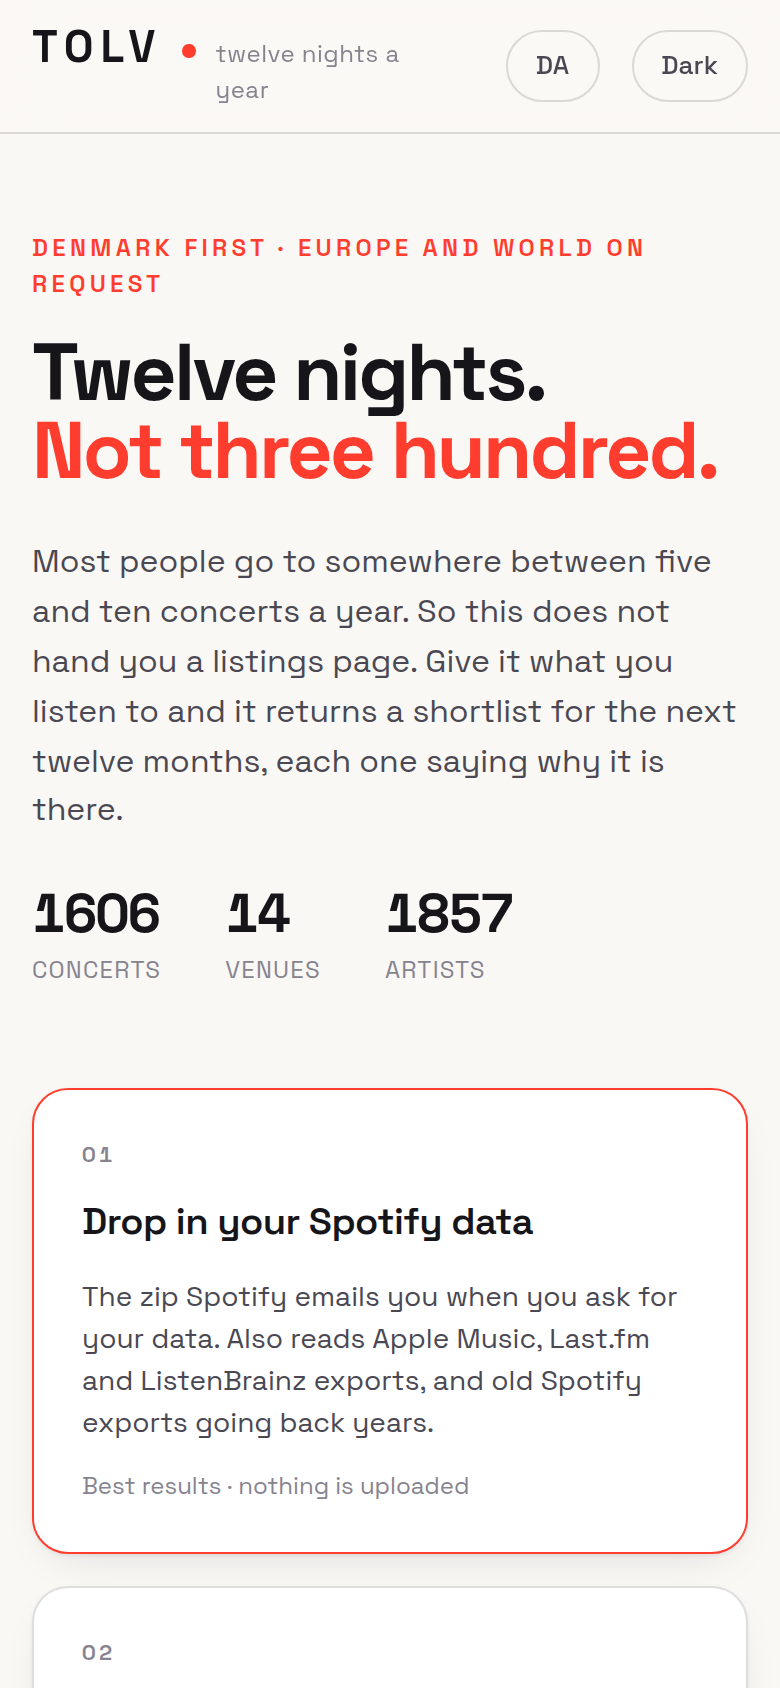
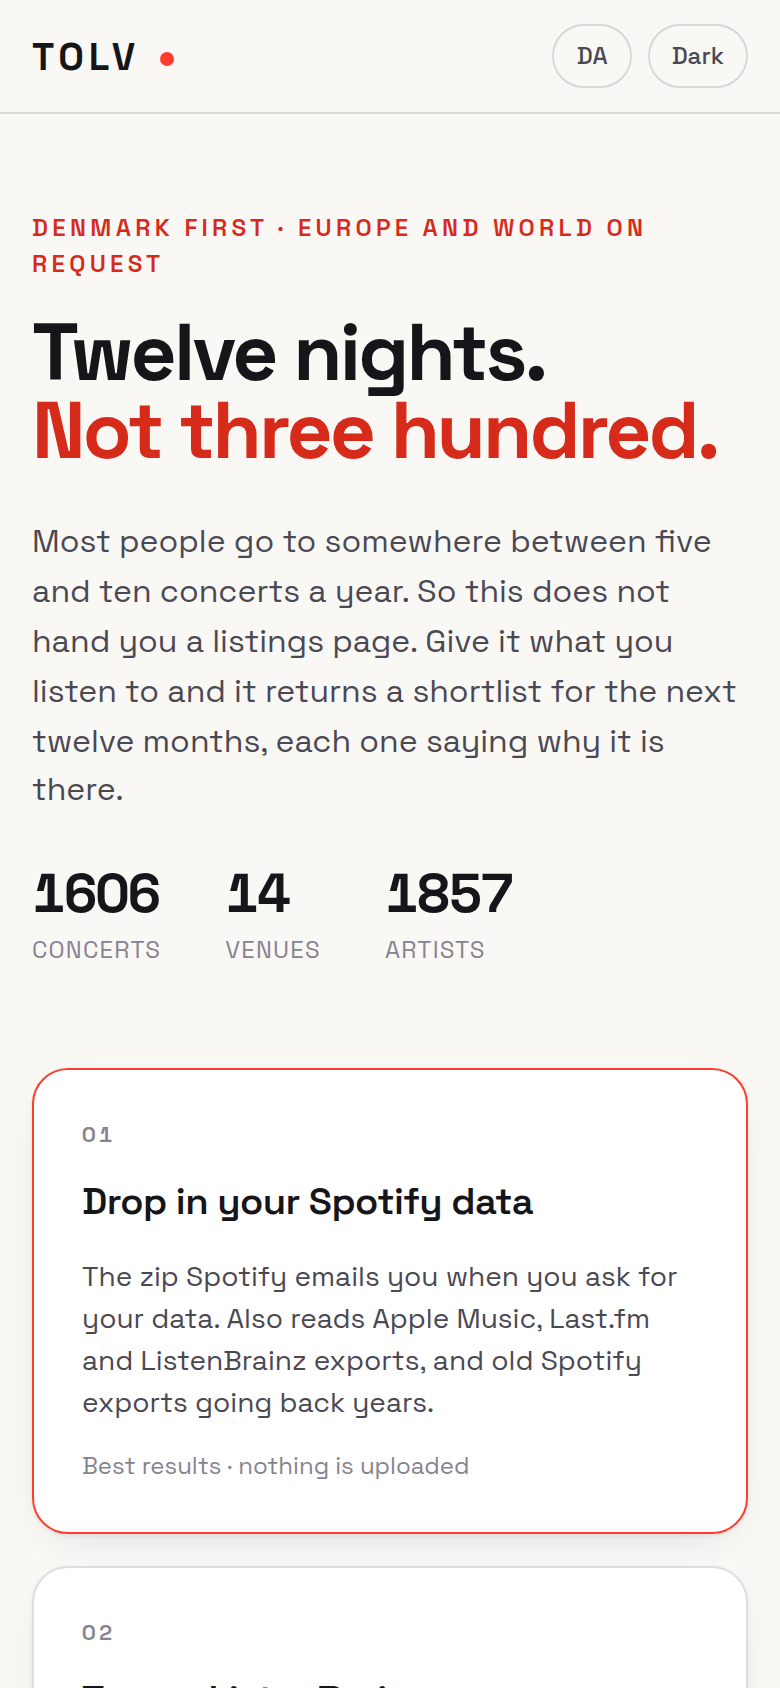
site: the mobile header no longer wraps the tagline over three lines
Claude-Session: https://claude.ai/code/session_011ymeh22ikCjWbehC7ZUTog

diff --git a/docs/index.html b/docs/index.html
@@ -879,6 +879,22 @@ input[type='range']::-moz-range-thumb {
   :root {
     --rail: 52px;
   }
+  /* The tagline wrapped to three lines beside the wordmark and pushed "Start
+     over" off the right edge. On a phone the wordmark is enough. */
+  .mark span {
+    display: none;
+  }
+  .top-in {
+    gap: var(--s2);
+  }
+  .ghost {
+    padding: 6px 11px;
+    font-size: 12px;
+  }
+  .mark b {
+    font-size: 19px;
+    letter-spacing: 0.13em;
+  }
   .wrap,
   .top-in,
   .controls-in {

diff --git a/site/style.css b/site/style.css
@@ -865,6 +865,22 @@ input[type='range']::-moz-range-thumb {
   :root {
     --rail: 52px;
   }
+  /* The tagline wrapped to three lines beside the wordmark and pushed "Start
+     over" off the right edge. On a phone the wordmark is enough. */
+  .mark span {
+    display: none;
+  }
+  .top-in {
+    gap: var(--s2);
+  }
+  .ghost {
+    padding: 6px 11px;
+    font-size: 12px;
+  }
+  .mark b {
+    font-size: 19px;
+    letter-spacing: 0.13em;
+  }
   .wrap,
   .top-in,
   .controls-in {
